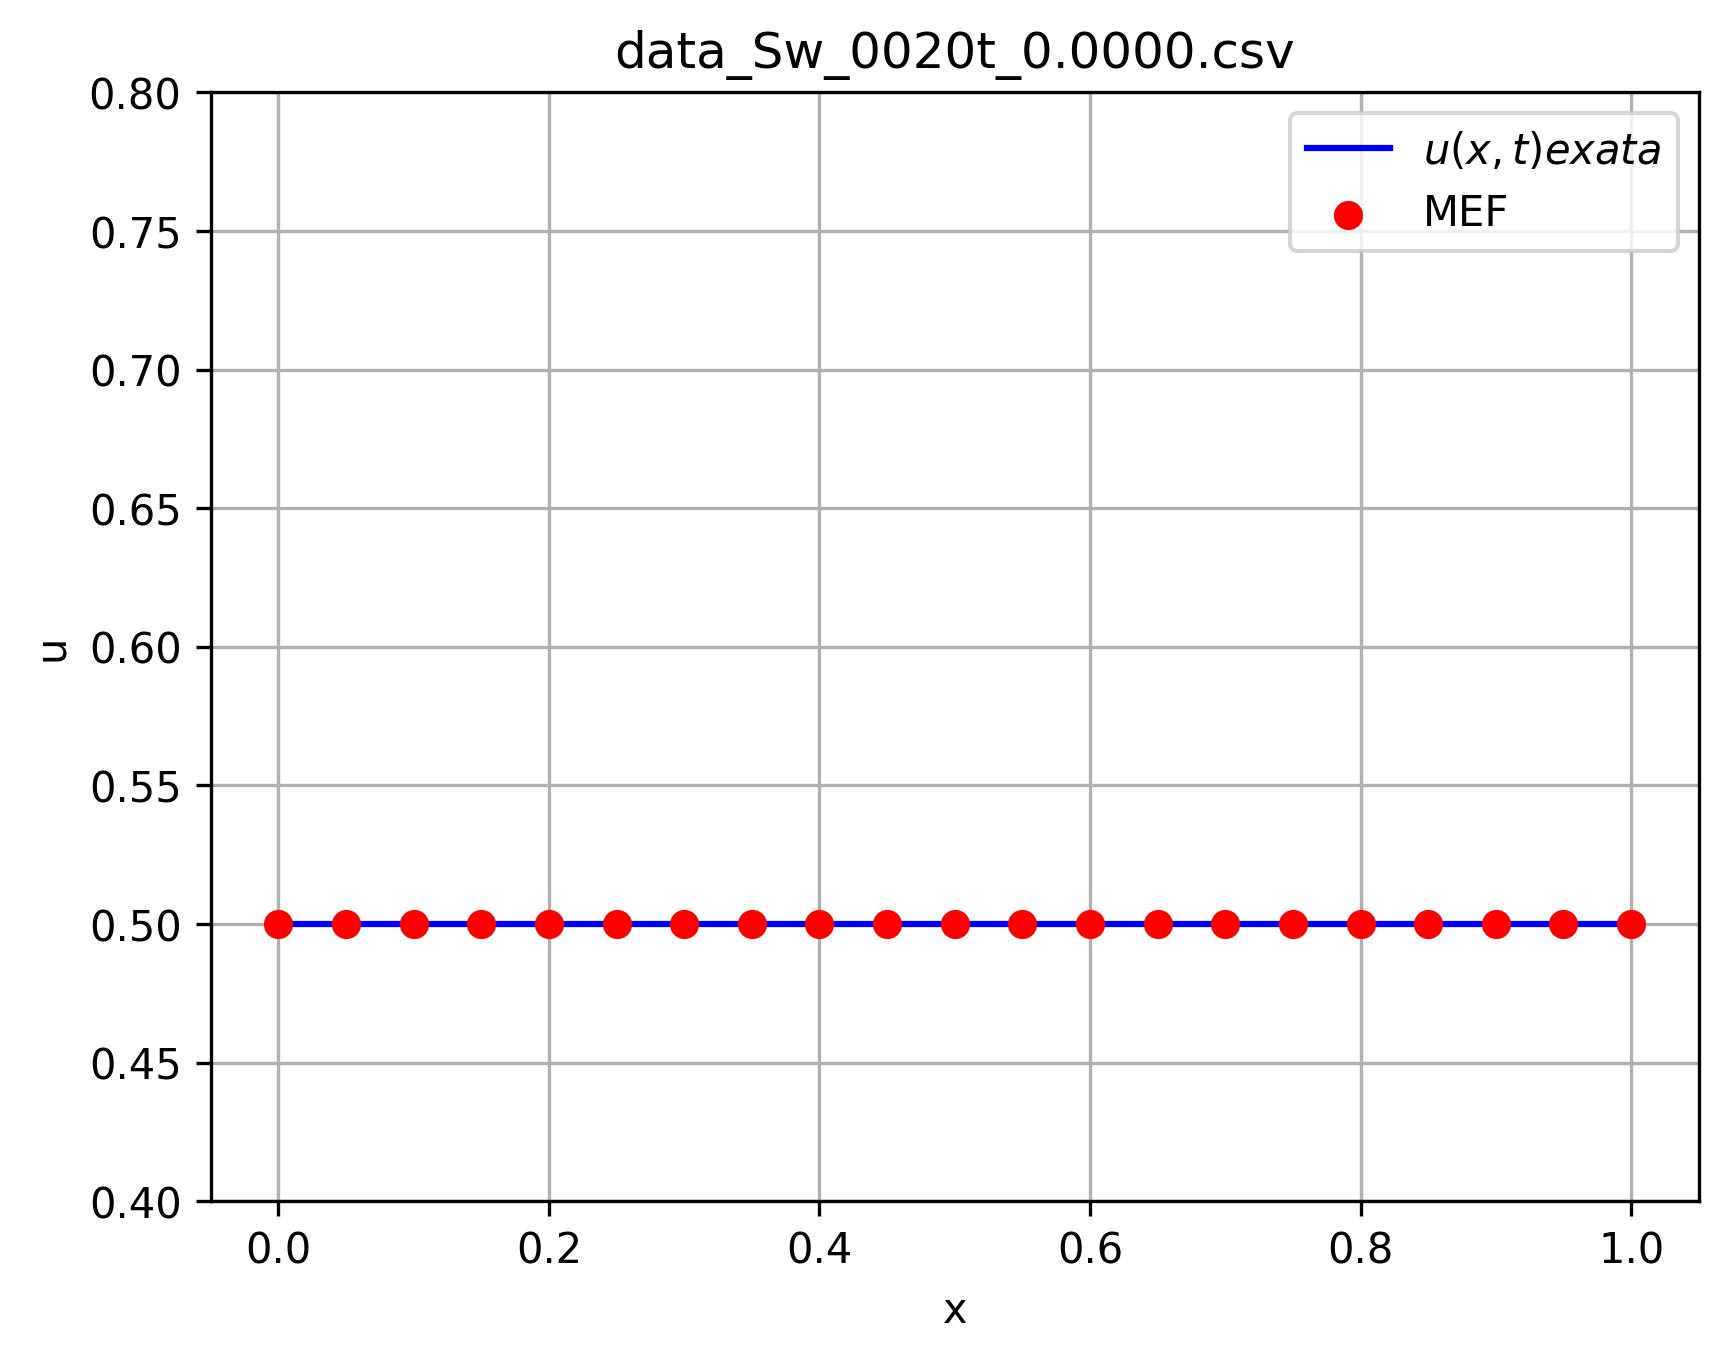
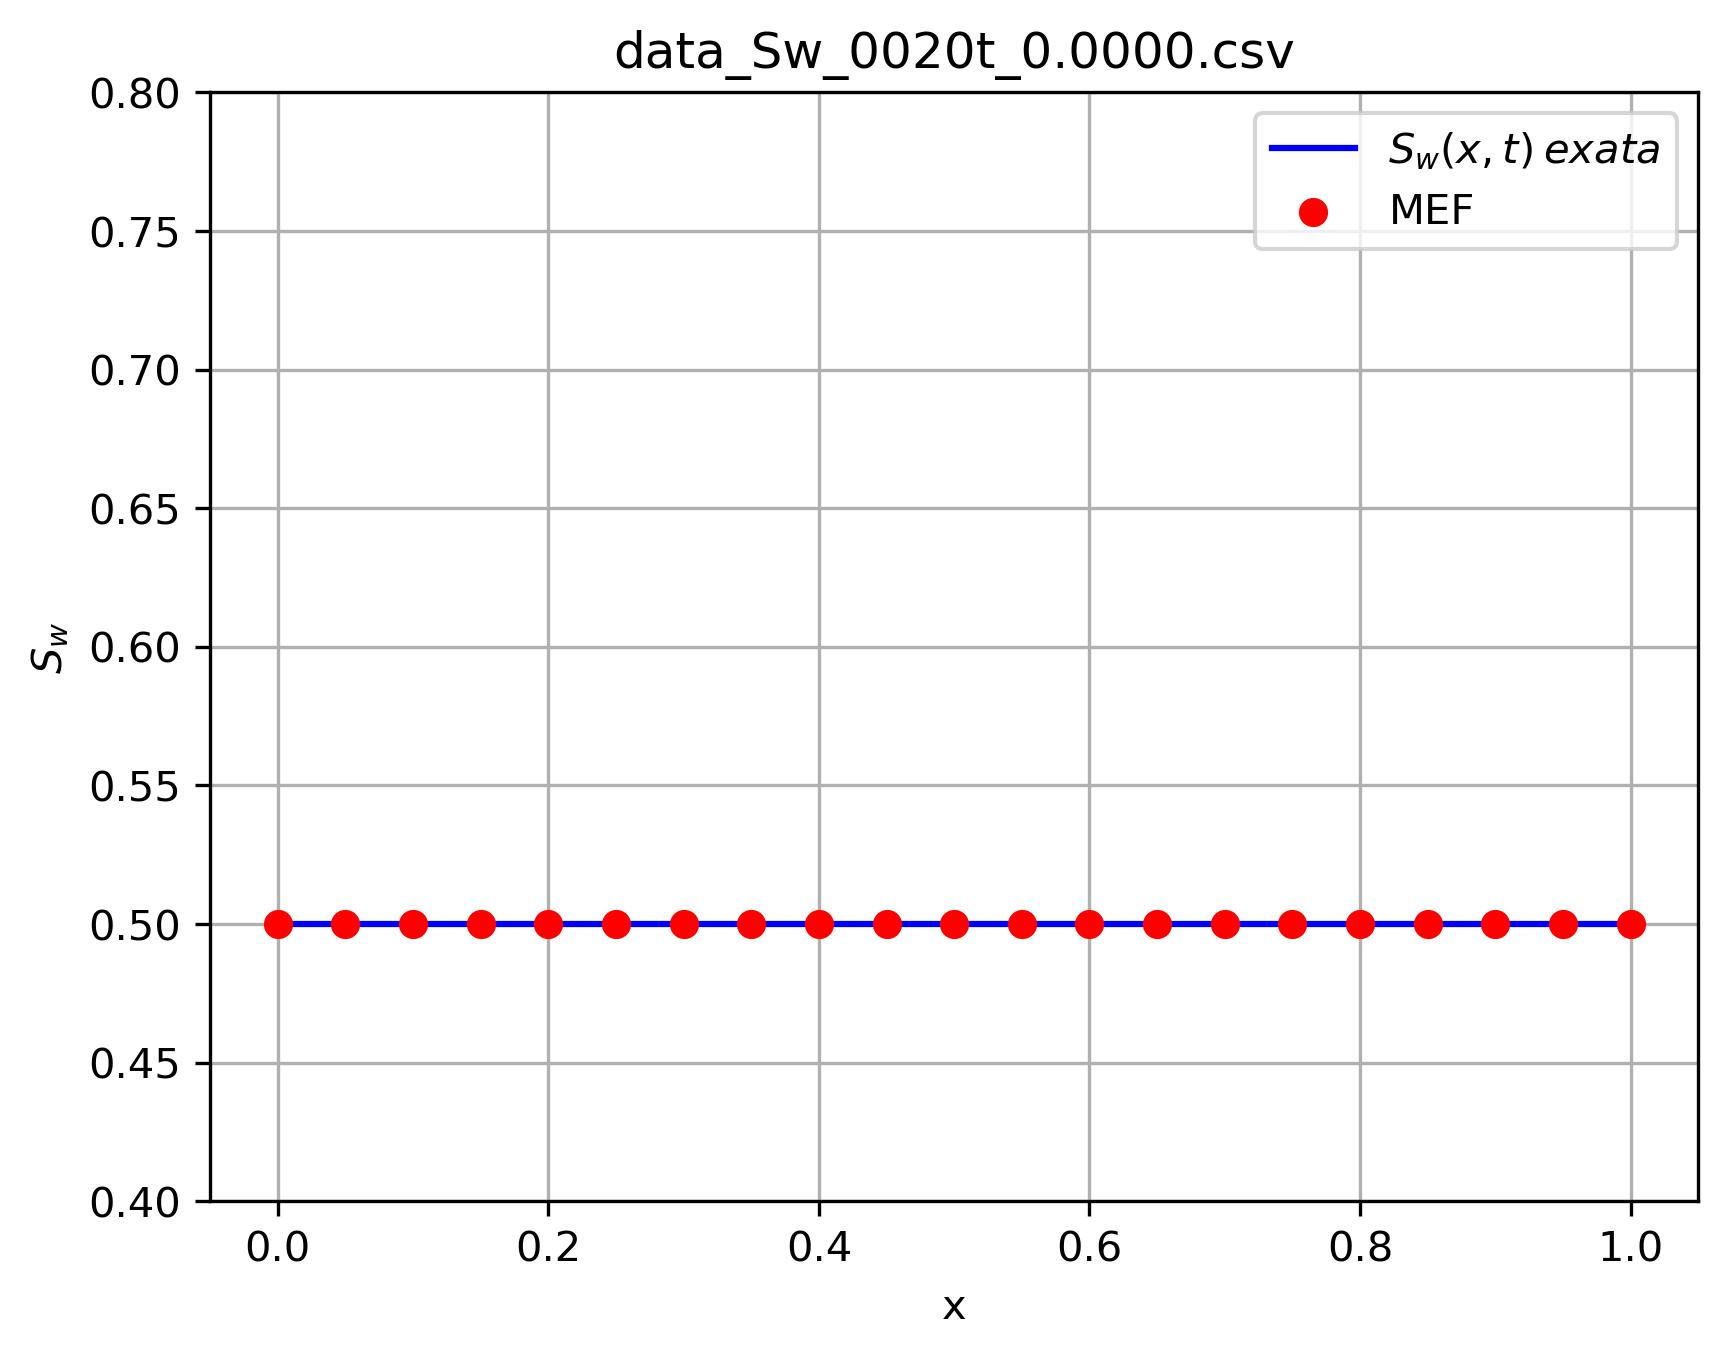
coeffVec_1, Swe_h and pBare_h bugg solved

diff --git a/testCase_1/impes.cpp b/testCase_1/impes.cpp
@@ -289,7 +289,7 @@ int main(){
     double t = 0.0;
     double T = 1.0;
     double dt = 1e-4; // LESSER THAN h*h/2.0;
-    double dt_save = 0.25;
+    double dt_save = 0.2;
     cout << "dt = " << dt << endl;
 
     // polynomials basis
@@ -520,11 +520,15 @@ int main(){
                 double xx = 0.0;
                 for (int i = 0; i < nen; i++){
                     xx += shg[i][l]*xl[n*(nen-1) + i];
-                    Swe_h[l] += shg[i][l]*Sw_n[n*(nen-1) + i];
-                    pBare_h[l] += shg[i][l]*pbar_np1[n*(nen-1) + i];
+                    // Swe_h[l] += shg[i][l]*Sw_n[n*(nen-1) + i];
+                    // pBare_h[l] += shg[i][l]*pbar_np1[n*(nen-1) + i];
                 }
 
-                coeffVec_1[l] = abs_perm(xx)*lambda_w(Swe_h[l]);
+                // coeffVec_1[l] = abs_perm(xx)*lambda_w(Swe_h[l]);
+
+                coeffVec_1[l] = abs_perm(xx)*lambda_w(Sw_n[n*(nen-1) + l]);
+                Swe_h[l] = Sw_n[n*(nen-1) + l];
+                pBare_h[l] = pbar_np1[n*(nen-1) + l];
 
                 // Local source vector and stiffines matrix construction 
                 for (int j = 0; j < nen; j++){

diff --git a/testCase_1/post_proc_plots.py b/testCase_1/post_proc_plots.py
@@ -53,12 +53,12 @@ for i in range(len(filtered_files)):
     plt.grid(True)
 
     u = pBar_exact(x, times[i])
-    plt.plot(x,u,c = "b",label="$u(x,t) exata$")
+    plt.plot(x,u,c = "b",label="$\overline{p}(x,t) \: exata$")
     plt.scatter(x_projL2, u_projL2, c="r", marker='o', label="MEF", zorder=2) # linestyle='--'
     
     plt.title(file)
     plt.xlabel("x")
-    plt.ylabel("u")
+    plt.ylabel("$\overline{p}$")
     plt.ylim([-0.03,0.08])
     plt.legend()
     plt.savefig('plot'+file[:-4]+str(times[i])+'.jpeg', dpi=300, bbox_inches='tight')
@@ -92,12 +92,12 @@ for i in range(len(filtered_files)):
     plt.grid(True)
 
     u = Sw_exact(x, times[i])
-    plt.plot(x,u,c = "b",label="$u(x,t) exata$")
+    plt.plot(x,u,c = "b",label="$S_w(x,t) \: exata$")
     plt.scatter(x_projL2, u_projL2, c="r", marker='o', label="MEF", zorder=2) # linestyle='--'
     
     plt.title(file)
     plt.xlabel("x")
-    plt.ylabel("u")
+    plt.ylabel("$S_w$")
     plt.ylim([0.4, 0.8])
     plt.legend()
     plt.savefig('plot'+file[:-4]+str(times[i])+'.jpeg', dpi=300, bbox_inches='tight')
